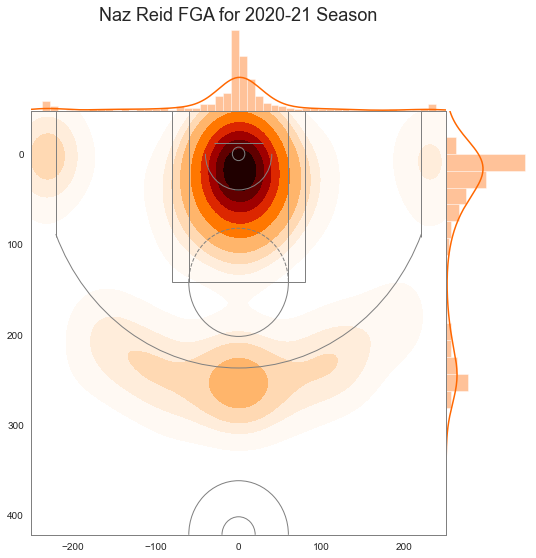
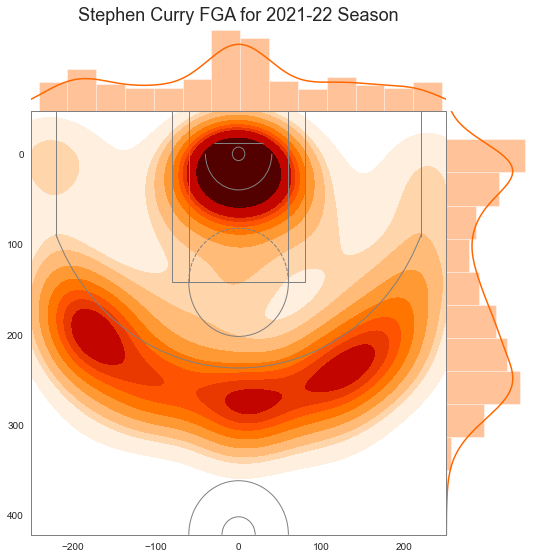
change to hexbins instead of squares for heatmap

diff --git a/basketballshotchartvisualization.py b/basketballshotchartvisualization.py
@@ -259,9 +259,9 @@ def create_heatmap(player_name , season_id , ax , f):
     c = ["darkred","red","lightcoral","white", "palegreen","green","darkgreen"]
     v = [0, .15 ,.25, .33 , 0.45 , .55 ,1.]
     l = list(zip(v,c))
-    cmap_heat = LinearSegmentedColormap.from_list('rg',l, N=256)
+    cmap= plt.cm.gist_heat_r
     
-    heat_map = nba.heatmap(final_player_df.LOC_X, final_player_df.LOC_Y,final_player_df.SHOT_MADE_FLAG, bins = 5 , cmap = cmap_heat, title = f"{player_name.title()} efficiency {season_id} Season" , ax = ax , facecolor_alpha= 1)
+    heat_map = nba.heatmap(final_player_df.LOC_X, final_player_df.LOC_Y,final_player_df.SHOT_MADE_FLAG , cmap = cmap, title = f"{player_name.title()} efficiency {season_id} Season" , ax = ax)
     f.colorbar(heat_map)
 
 
